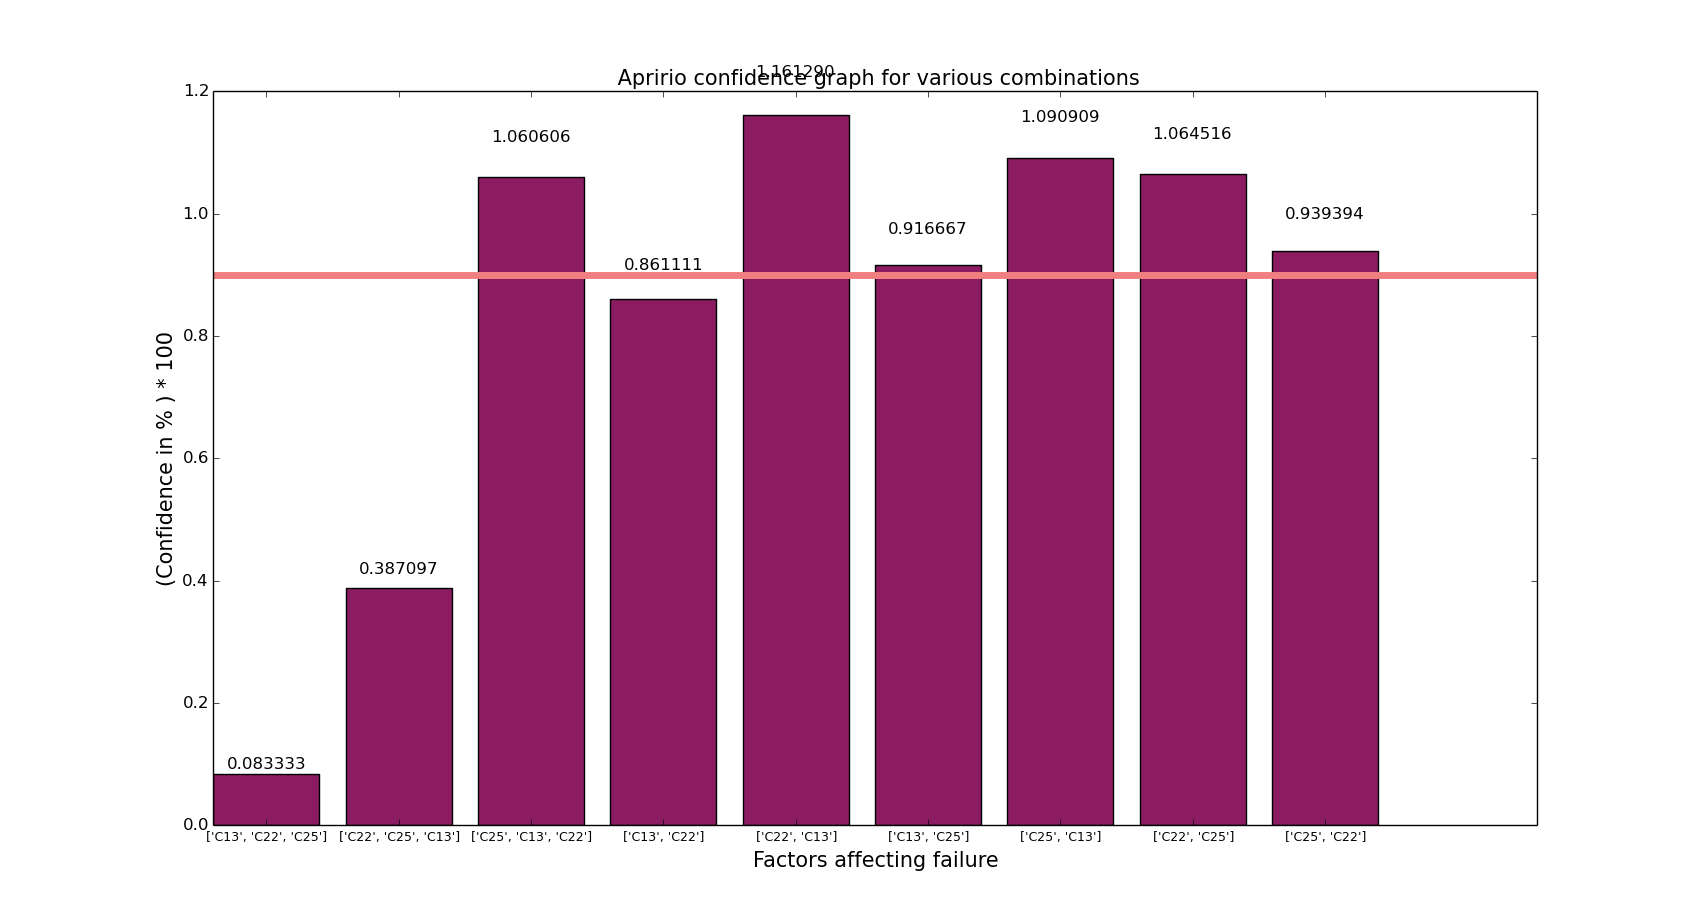
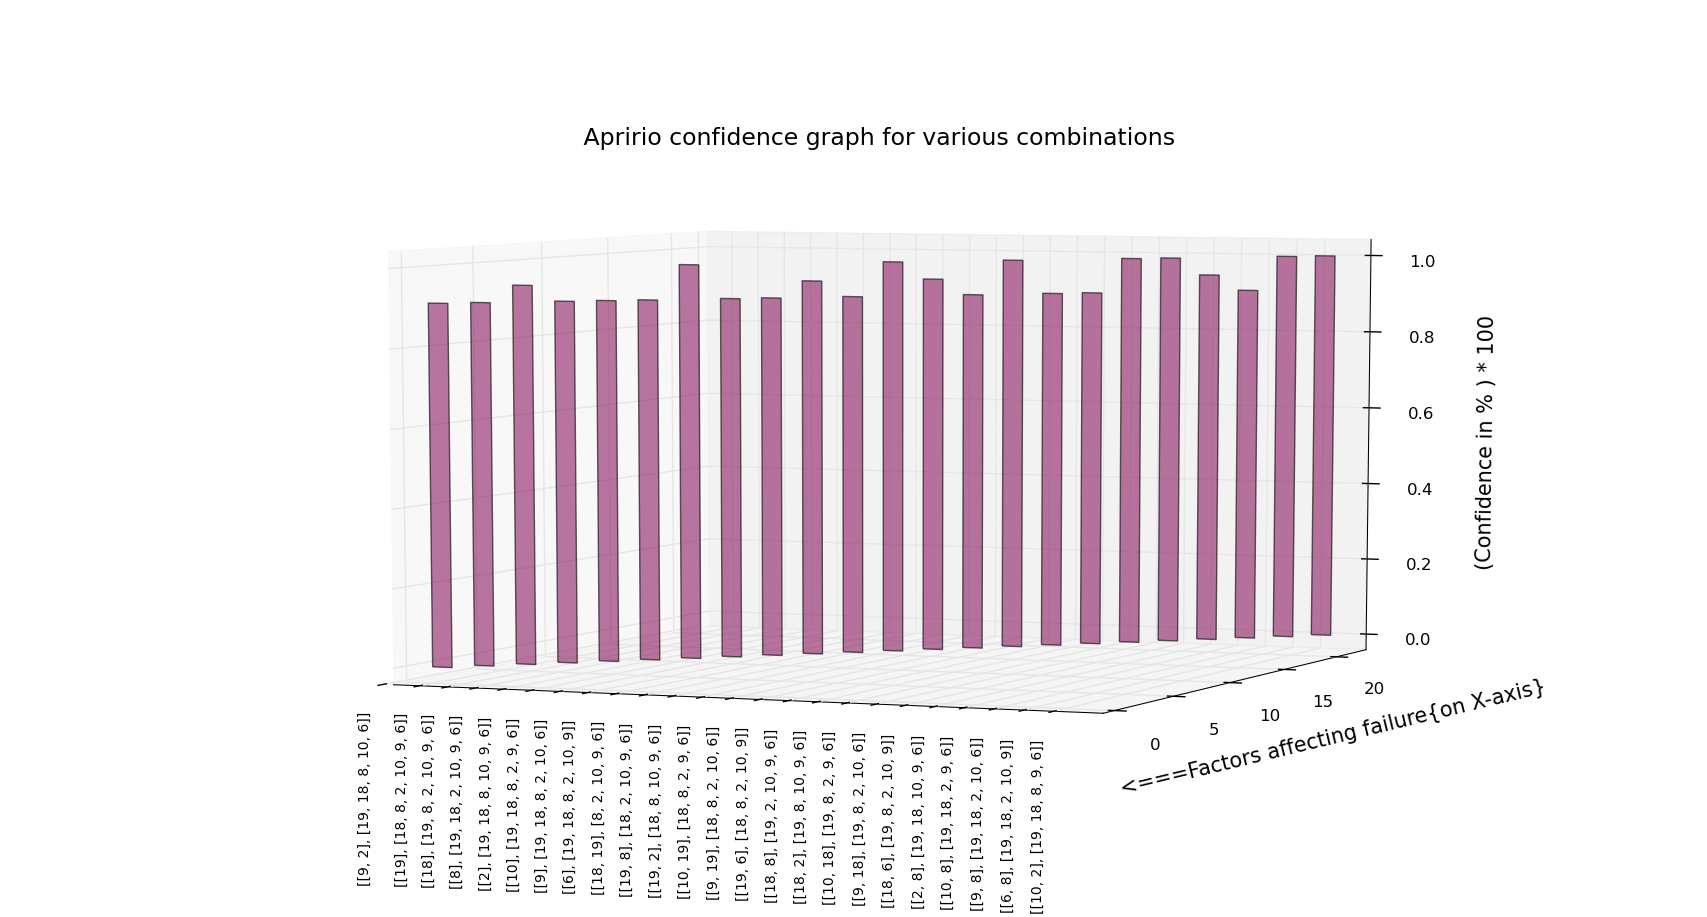
modified graph to 3D

diff --git a/becombination.py b/becombination.py
@@ -4,6 +4,7 @@ import pycsv as pc
 import os
 import itertools
 import numpy as np
+from mpl_toolkits.mplot3d import Axes3D
 import matplotlib.pyplot as plt
 from matplotlib import cm
 
@@ -189,9 +190,9 @@ def plot_confidence():
 	global combi
 	n = len(ranks)
 	tmp= []
-	x_ax= tuple(ranks[0:n])#py.linspace(0,2,9,0.3)
+	x_ax= ranks[0:n]#py.linspace(0,2,9,0.3)
 	#x_ax= tuple(ranks[0:9])
-	ind= np.arange(n)
+	ind= range(0, n)
 	width= 0.70
 	x= range(0, len(ranks)+1)
 	y= range(0, len(ranks)+1)
@@ -199,27 +200,39 @@ def plot_confidence():
 		x[i] = i
 		y[i] = 0.9
 	#py.subplot(x,y,'r')
-	fig, ax= plt.subplots()
-	ax.plot(x,y,color= 'lightcoral', linewidth=2)
-	rect1= ax.bar(ind, x_ax, width, color='#8B1C62')
-	#ax.legend(rect1[0],('men'))
+	#fig, ax= plt.subplots()
+	x_ax=tuple(x_ax)
+	fig = plt.figure()
+	ax = fig.add_subplot(111, projection='3d')
+	print ind
+	for i in range(0, n):
+		ind[i] = ind[i]+2
+		rect1 = ax.bar([ind[i]], [x_ax[i]], zs=i, zdir='y', width=0.70, color='#8B1C62', alpha=0.6)
+	#ax.plot(x,y, zs=0, zdir='y', color= 'lightcoral', linewidth=2)
+
+
 	ax.set_title(' Apririo confidence graph for various combinations', fontsize=17)
-	ax.set_ylabel('(Confidence in % ) * 100', fontsize=15)
-	ax.set_xlabel('Factors affecting failure', fontsize=15)
-	ax.set_xticks(ind+width-0.40)
+	ax.set_zlabel('(Confidence in % ) * 100', fontsize=15)
+	ax.set_ylabel('<===Factors affecting failure{on X-axis}',  labelpad=100 ,fontsize=15)
+	ax.set_xticks(ind+[width])
 	for i in combi:
 		tmp+= i[0:2]
 	print tuple(tmp)
-	ax.set_xticklabels(tuple(combi), fontsize=8, rotation= 110)
-	plt.margins(0.09)
+	ax.set_xticklabels(tuple(combi), fontsize=10, rotation= 90 )
+
+	plt.margins(0.02)
 	# Tweak spacing to prevent clipping of tick-labels
-	plt.subplots_adjust(bottom=0.20)
-	def autolabel(rects):
+	plt.subplots_adjust(bottom=0.08)
+
+	def autolabel():
 		# attach some text labels
-		for rect in rects:
-			height = rect.get_height()
-			ax.text(float(rect.get_x())+float(rect.get_width()/2.), 1.05*height,'%f'%float(height),ha='center', va='bottom',fontsize = 8, rotation= 70 )
-   	autolabel(rect1)
+		for i in range(0, n):
+			ax.text(int(ind[i])+1, i-2, x_ax[i], str(x_ax[i])[0:4], color='#660066', backgroundcolor= '#c187e1', family= 'fantasy',weight= 'bold', rotation='vertical', fontsize=12)   	#autolabel(rect1)
+	print "++++++++++++++", rect1
+	for  i in rect1:
+		print i
+	print "+++++++++++++++++"
+	autolabel()
 	mng = plt.get_current_fig_manager()
 	mng.full_screen_toggle()
 	plt.show()
@@ -245,6 +258,7 @@ def pieChart():
 	#cs=cm.Set1(np.arange(9)/9.)
 	fracs= ranks[0:len(combi)]
 	py.pie(fracs, labels=labels, colors= colors, explode= explode, autopct='%1.1f%%', shadow=True, startangle=90)
+	py.title('Influence of each factor...', bbox={'facecolor':'#CCFF99', 'pad':20})
 	mng = plt.get_current_fig_manager()
 	mng.full_screen_toggle()
 	py.show('equal')
@@ -264,8 +278,8 @@ def moreThan90():
 
 
 if __name__ == "__main__":
-	os.system("javac AprioriAlgo.java")
-	os.system("java AprioriAlgo > out.txt")
+	#os.system("javac AprioriAlgo.java")
+	#os.system("java AprioriAlgo > out.txt")
 	os.system("clear")
 	os.system("cat out.txt | tail -2 > b.txt")
 	init()
